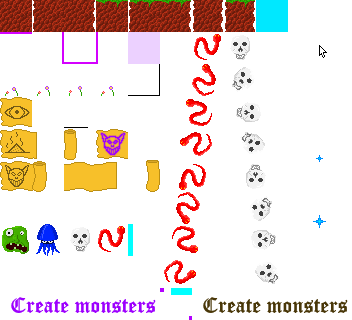
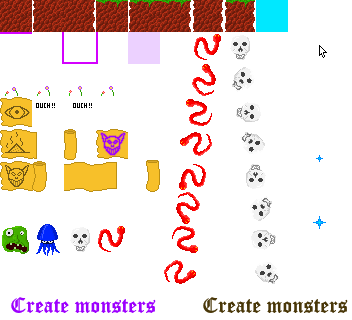
Roadmap gif. Moteur du jeu. Le petit script de gamecode qui générera l'animation. En cours. (7)

diff --git a/image_workshop_gif/roadmap/game_engine/anim.py b/image_workshop_gif/roadmap/game_engine/anim.py
@@ -1,6 +1,5 @@
 # https://raw.githubusercontent.com/darkrecher/squarity-doc/master/image_workshop_gif/roadmap/game_engine/draft.png
-# https://i.ibb.co/zmdNtcL/draft.png
-
+# https://i.ibb.co/5s61Jph/draft.png
 
 """
 
@@ -8,7 +7,7 @@
     "tile_size": 32,
     "game_area": {
         "nb_tile_width": 12,
-        "nb_tile_height": 9
+        "nb_tile_height": 8
     },
 
     "img_coords": {
@@ -162,9 +161,54 @@
       "monster_red_rot_7l": [160, 256],
       "monster_red_rot_7r": [192, 256],
 
-      "sky": [256, 0],
+      "monster_red_rot_0l": [160, 32],
+      "monster_red_rot_0r": [192, 32],
+      "monster_red_rot_1l": [160, 64],
+      "monster_red_rot_1r": [192, 64],
+      "monster_red_rot_2l": [160, 96],
+      "monster_red_rot_2r": [192, 96],
+      "monster_red_rot_3l": [160, 128],
+      "monster_red_rot_3r": [192, 128],
+      "monster_red_rot_4l": [160, 160],
+      "monster_red_rot_4r": [192, 160],
+      "monster_red_rot_5l": [160, 192],
+      "monster_red_rot_5r": [192, 192],
+      "monster_red_rot_6l": [160, 224],
+      "monster_red_rot_6r": [192, 224],
+      "monster_red_rot_7l": [160, 256],
+      "monster_red_rot_7r": [192, 256],
 
-      "vide": [0, 0]
+      "monster_white_rot_0l": [224, 32],
+      "monster_white_rot_0r": [256, 32],
+      "monster_white_rot_1l": [224, 64],
+      "monster_white_rot_1r": [256, 64],
+      "monster_white_rot_2l": [224, 96],
+      "monster_white_rot_2r": [256, 96],
+      "monster_white_rot_3l": [224, 128],
+      "monster_white_rot_3r": [256, 128],
+      "monster_white_rot_4l": [224, 160],
+      "monster_white_rot_4r": [256, 160],
+      "monster_white_rot_5l": [224, 192],
+      "monster_white_rot_5r": [256, 192],
+      "monster_white_rot_6l": [224, 224],
+      "monster_white_rot_6r": [256, 224],
+      "monster_white_rot_7l": [224, 256],
+      "monster_white_rot_7r": [256, 256],
+
+      "text_ouch_l": [32, 96],
+      "text_ouch_r": [64, 96],
+
+      "star_0_0": [307, 144],
+      "star_0_1": [307, 208],
+      "star_1_0": [304, 151],
+      "star_1_1": [304, 215],
+      "star_2_0": [297, 141],
+      "star_2_1": [297, 205],
+      "star_3_0": [312, 147],
+      "star_3_1": [312, 211],
+
+
+      "sky": [256, 0]
 
     }
   }
@@ -177,10 +221,9 @@ H*..........
 M...........
 ............
 ............
-.......+....
-.......I-...
-./=-...I1...
-=###===##===
+....../-....
+..+...I#-...
+==#===###===
 """
 
 
@@ -635,6 +678,34 @@ SEQ_MAGI_SQUARE = (
     ),
 )
 
+SEQ_MAGI_STARS = (
+    ((7, 2, "star_0_0"),),
+    ((7, 2, "star_0_1"),),
+    (
+        (8, 2, "star_1_0"),
+        (7, 2, "star_0_0"),
+    ),
+    (
+        (8, 2, "star_1_1"),
+        (7, 3, "star_2_0"),
+    ),
+    (
+        (8, 2, "star_1_0"),
+        (7, 3, "star_2_1"),
+        (8, 2, "star_2_0"),
+    ),
+    (
+        (7, 3, "star_2_0"),
+        (8, 3, "star_3_0"),
+        (8, 2, "star_2_1"),
+    ),
+    (
+        (8, 3, "star_3_1"),
+        (8, 2, "star_2_0"),
+    ),
+    ((8, 3, "star_3_0"),),
+)
+
 SEQ_TEMPLATE_MONSTER_FALL = (
     (
         (0, 0, "{{monster}}_0u"),
@@ -715,7 +786,7 @@ SEQ_GREEN = SEQ_STATIC_GREEN_ON_START + untemplatize_seq(
 
 SEQ_STATIC_BLUE_ON_START = (((8, 3, "monster_blue"),),) * 5
 
-SEQ_STATIC_BLUE_ON_END = (((8, 4, "monster_blue"),),)
+SEQ_STATIC_BLUE_ON_END = (((8, 5, "monster_blue"),),)
 
 SEQ_BLUE = (
     SEQ_STATIC_BLUE_ON_START
@@ -732,16 +803,23 @@ SEQ_RED = (
     + untemplatize_seq(SEQ_TEMPLATE_MONSTER_FALL, 6, 3, "monster", "monster_red")
 )
 
+SEQ_STATIC_RED_ON_END = (((6, 4, "monster_red"),),)
+
 SEQ_STATIC_WHITE_ON_START = (((8, 2, "monster_white"),),) * 5
 
 SEQ_WHITE = (
     SEQ_STATIC_WHITE_ON_START
     + untemplatize_seq(SEQ_TEMPLATE_MONSTER_FALL, 8, 2, "monster", "monster_white")
     + untemplatize_seq(SEQ_TEMPLATE_MONSTER_FALL, 8, 3, "monster", "monster_white")
+    + untemplatize_seq(SEQ_TEMPLATE_MONSTER_ROT, 8, 4, "monster", "monster_white")
+    + untemplatize_seq(SEQ_TEMPLATE_MONSTER_FALL, 9, 4, "monster", "monster_white")
+    + untemplatize_seq(SEQ_TEMPLATE_MONSTER_FALL, 9, 5, "monster", "monster_white")
 )
 
-
 DATE_START_MONSTERS = 27
+
+SEQ_TEXT_OUCH_GREEN = (((6, 4, "text_ouch_l"),),) * 6
+SEQ_TEXT_OUCH_BLUE = (((9, 5, "text_ouch_r"),),) * 6
 
 
 class AnimationSequence:
@@ -788,7 +866,7 @@ class GameModel:
 
     def __init__(self):
         self.w = 12
-        self.h = 9
+        self.h = 8
         self.anim_sequences = (
             AnimationSequence(SEQ_SPELL, 0),
             AnimationSequence(
@@ -807,12 +885,21 @@ class GameModel:
             AnimationSequence(SEQ_RED, DATE_START_MONSTERS),
             AnimationSequence(SEQ_WHITE, DATE_START_MONSTERS),
             AnimationSequence(SEQ_MAGI_SQUARE, DATE_START_LAUNCH_SPELL),
+            AnimationSequence(SEQ_MAGI_STARS, DATE_START_LAUNCH_SPELL + 1),
             AnimationSequence(SEQ_MOUSE, 0),
+            AnimationSequence(SEQ_TEXT_OUCH_GREEN, DATE_START_MONSTERS + 13),
+            AnimationSequence(SEQ_TEXT_OUCH_BLUE, DATE_START_MONSTERS + 21),
             AnimationSequence(
                 SEQ_STATIC_MOUSE_CURSOR_ON_END, len(SEQ_MOUSE), loop=True
             ),
             AnimationSequence(
                 SEQ_STATIC_GREEN_ON_END, DATE_START_MONSTERS + len(SEQ_GREEN), loop=True
+            ),
+            AnimationSequence(
+                SEQ_STATIC_RED_ON_END, DATE_START_MONSTERS + len(SEQ_RED), loop=True
+            ),
+            AnimationSequence(
+                SEQ_STATIC_BLUE_ON_END, DATE_START_MONSTERS + len(SEQ_BLUE), loop=True
             ),
         )
         self.tiles = [[[] for x in range(self.w)] for y in range(self.h)]
@@ -827,7 +914,7 @@ class GameModel:
         self.calculated_game_areas = []
 
         self.initial_map = INITIAL_MAP.strip().split("\n")
-        self.current_step_index = 25
+        self.current_step_index = 20
         self.apply_anim_step()
 
     def reset_game_area(self):
